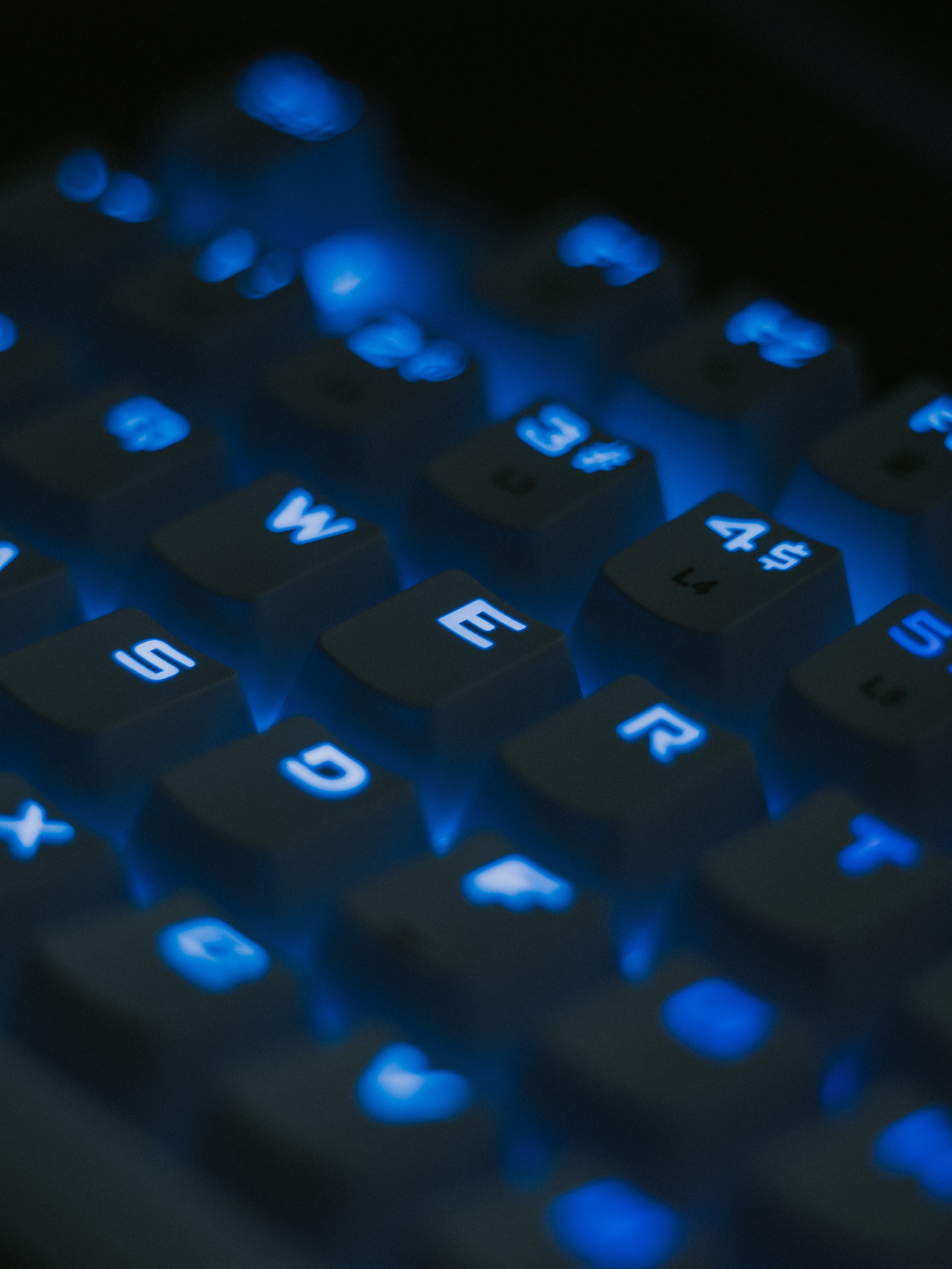
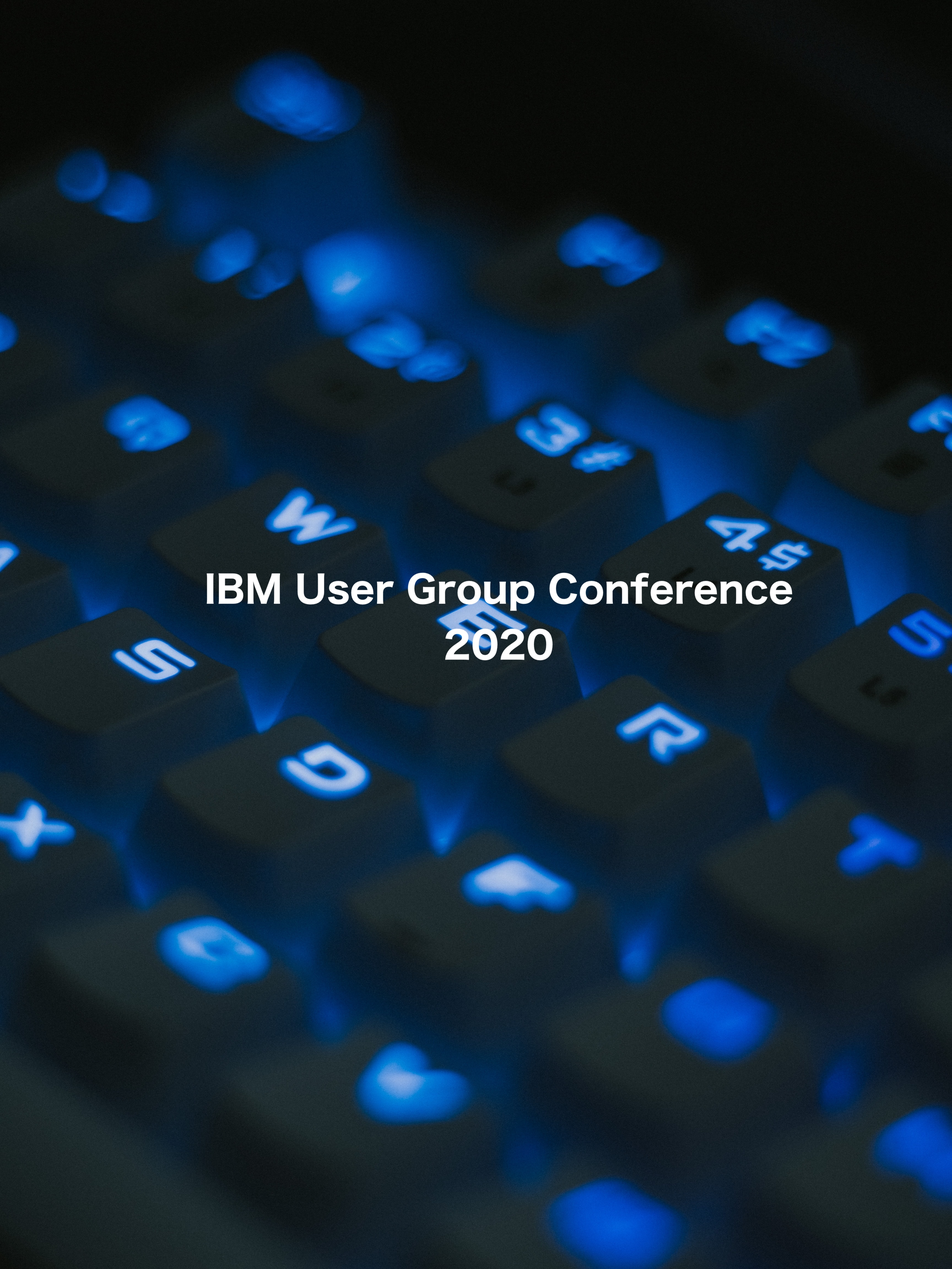
ロゴの変更とサイト構成の見直し

Changed region(s): [[0.2188, 0.4375, 0.8438, 0.5312]]

diff --git a/views/css/style.css b/views/css/style.css
@@ -50,24 +50,84 @@ a:hover {
 ---------------------------------------------------------------------------*/
 header {
 	width: 100%;height: 110%;overflow: hidden;position: relative;
-	background: #000 url(../images/bg-keyboard.jpg) no-repeat center center;	/*背景画像の設定（古いブラウザ用）*/
-	background: #000 url(../images/bg-keyboard.jpg) no-repeat center center / cover;	/*背景画像の設定*/
 }
-/*h1タグ*/
-header h1 {
+.site-header{
+    background: #c3b5a2;
+    display: flex;
+    padding: 0px 20px;
+    position: fixed;
+	width: 100%;
+	height: 70px;
+}
+.site-logo img{
+    height: 60px;
+    width: auto;
+}
+.gnav__menu{
+    display: flex;
+}
+.gnav__menu__item{
+    margin-left: 20px;
+}
+.gnav__menu__item a{
+    text-decoration: none;
+}
+.bg{
+	top:70px;
+	background: url(../images/hero-area.jpg) no-repeat center;
+	background-size: cover;
+	position: relative;
+	height:500px;
+	text-align: center;
+
+}
+.bg::before{
+	content: ' ';
+	background-color: rgba(0,0,0,.7);
 	position: absolute;
-	top: 0px;	/*上から0pxの場所に配置*/
-	width: 100%;	/*幅*/
-	text-align: center;		/*テキストをセンタリング*/
-	background: #99918b;	/*背景色（古いブラウザ用）*/
-	background: rgba(0,0,0,0.8);	/*背景色。左４つの数字はRGBでのカラーコード指定。最後の0.8は色が80%ついた状態。*/
-	color: #fff;	/*文字色*/
-	font-weight: normal;	/*hタグのデフォルトの太字を標準に*/
-	letter-spacing: 0.2em;	/*文字間隔を少し広くとる設定*/
-	font-size: 12px;		/*文字サイズ*/
-	z-index: 10;	/*重なりの順番。数字が大きい方が上に配置されます。*/
+	top: 0;
+	right: 0;
+	bottom: 0;
+	left: 0;
+   }
+.box{
+	position: absolute;
+	width: 100%;
+	margin: 0 15px;
+	text-align: center;
+	padding:80px 20px;
 }
 
+.bg button {
+	position: absolute;
+	bottom: 3%;
+	left: 50%;
+	-ms-transform: translate(-50%,-50%);
+	-webkit-transform: translate(-50%,-50%);
+	transform: translate(-50%,-50%);
+	margin:0;
+	padding:0;
+	background-color:rgb(71, 71, 236);
+	color: white;
+	border-radius: 30px;
+	}
+.entry-link {
+	color:white;
+	font-size: 3em;
+	margin: 60px;
+}
+.event-title{
+	font-size: 48px;
+	color: white;
+	font-weight: 700;
+}
+.event-date{
+	font-size: 18px;
+    font-style: italic;
+    margin-bottom: 22px;
+    line-height: 24px;
+    color: #fff;
+}
 /*inner
 ---------------------------------------------------------------------------*/
 .inner {
@@ -127,9 +187,12 @@ header h1 {
 }
 /*setionが続いた場合の２つ目のsectionへの設定*/
 .contents section + section {
-	margin-top: 50px;	/*上に空けるスペース*/
+	margin: 0 auto;
 }
 
+.contents{
+	padding-top: 70px;
+}
 /*Galleryページの各ボックス
 ---------------------------------------------------------------------------*/
 .list {
@@ -284,36 +347,38 @@ ul.disc {padding: 0em 25px 15px;list-style: disc;}
 	display: inline-block;
 	vertical-align: top;
 }
+.ug-image{
+	width: 180px;
+}
 .top_image {
-	height: 300px;
-	object-fit: cover; 
+	width: 170px;
+	height: 150px;
 }
 /*画面幅800px以下の設定
 ------------------------------------------------------------------------------------------------------------------------------------------------------*/
 @media screen and (max-width:850px){
 
-/*inner
----------------------------------------------------------------------------*/
-.inner {
-	padding: 50px 3%;	/*上下、左右へのボックス内の余白*/
-}
+	/*inner
+	---------------------------------------------------------------------------*/
+	.inner {
+		padding: 50px 3%;	/*上下、左右へのボックス内の余白*/
+	}
 
-/*その他
----------------------------------------------------------------------------*/
-body.s-n #sub,body.s-n #footermenu,.m-n {display: none;}
-.big1 {font-size: 20px;}
-.fl {float: none;}
-.fr {float: none;}
-.sh {display:block;}
-.pc {display:none;}
-.top_image {
-	width: 170px;
-	height: 150px;
-	object-fit: cover; 
+	/*その他
+	---------------------------------------------------------------------------*/
+	body.s-n #sub,body.s-n #footermenu,.m-n {display: none;}
+	.big1 {font-size: 20px;}
+	.fl {float: none;}
+	.fr {float: none;}
+	.sh {display:block;}
+	.pc {display:none;}
+	.event-title{
+		font-size: 18px;
+	}
+	.event-date{
+		font-size: 15px;
+	}
 }
-}
-
-
 
 /*画面幅480px以下の設定
 ------------------------------------------------------------------------------------------------------------------------------------------------------*/
